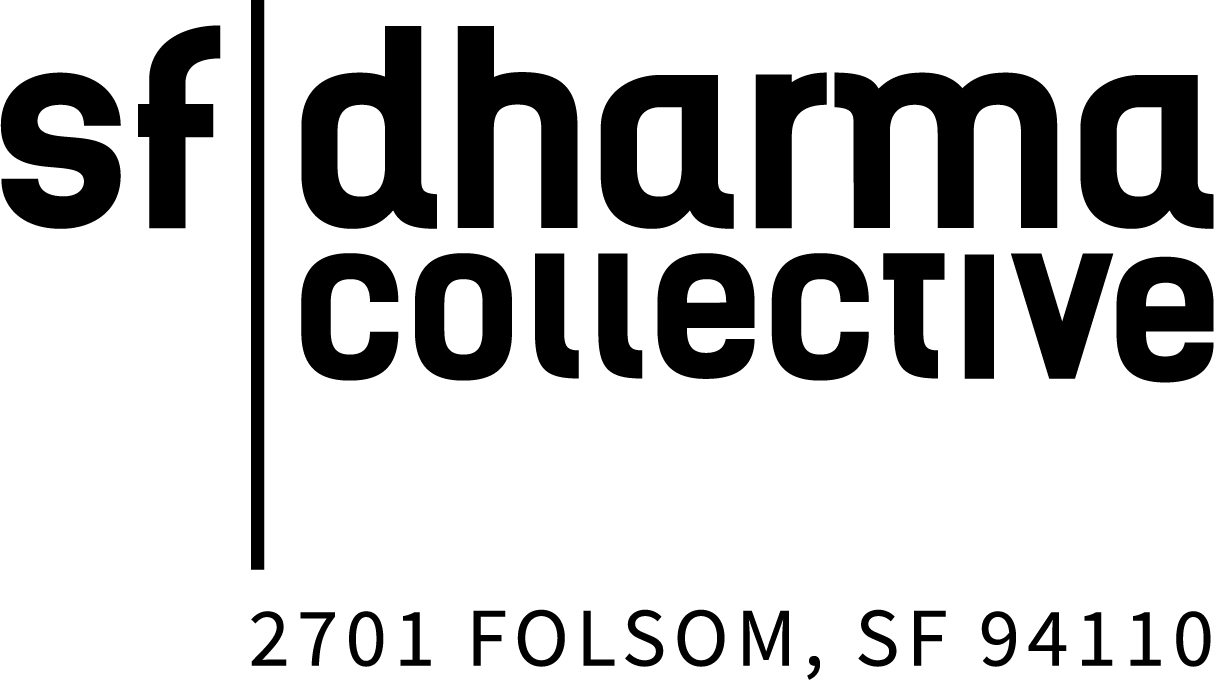
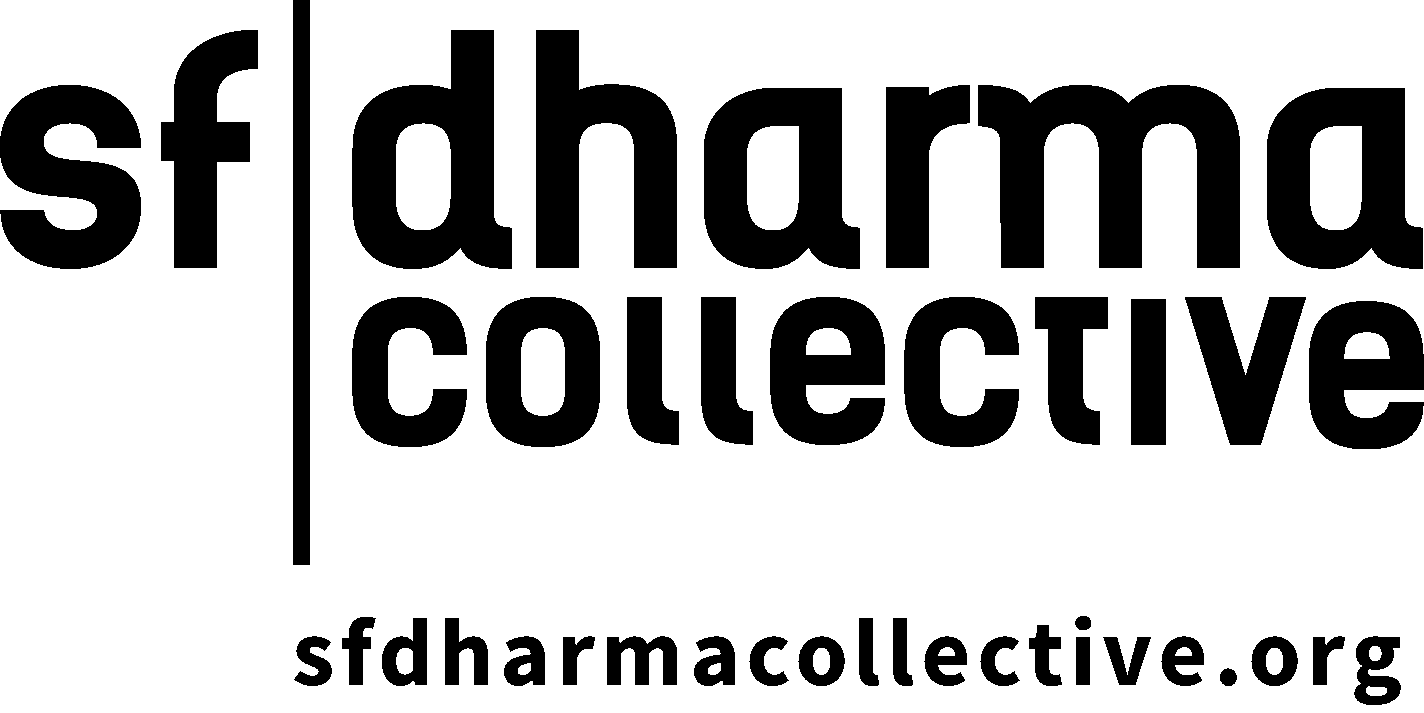
Update header image

diff --git a/src/components/MaterialMenu.js b/src/components/MaterialMenu.js
@@ -5,14 +5,14 @@ import Grid from '@material-ui/core/Grid';
 import HeaderImagePath from '../assets/images/sfdc-header.png';
 import Hidden from '@material-ui/core/Hidden';
 import IconButton from '@material-ui/core/IconButton';
-import {Link} from 'gatsby';
+import { Link } from 'gatsby';
 import MenuIcon from '@material-ui/icons/Menu';
 import MenuItem from './MenuItem';
 import PopoverMenu from './PopoverMenu';
 import React from 'react';
 import Toolbar from '@material-ui/core/Toolbar';
 import Typography from '@material-ui/core/Typography';
-import {makeStyles} from '@material-ui/core/styles';
+import { makeStyles } from '@material-ui/core/styles';
 import withWidth from '@material-ui/core/withWidth';
 
 const useStyles = makeStyles((theme) => ({
@@ -21,8 +21,8 @@ const useStyles = makeStyles((theme) => ({
     marginTop: '10px',
   },
   headerImage: {
-    'maxWidth': '90px',
-    'transition': 'all 0.2s ease-in-out',
+    maxWidth: '110px',
+    transition: 'all 0.2s ease-in-out',
     '&:hover': {
       filter:
         'invert(82%) sepia(47%) saturate(536%) hue-rotate(136deg) brightness(84%) contrast(89%)',
@@ -34,7 +34,7 @@ const useStyles = makeStyles((theme) => ({
 }));
 
 const menuItems = [
-  {name: 'Home', path: '/'},
+  { name: 'Home', path: '/' },
   {
     name: 'About Us',
     path: '/about-us',
@@ -45,9 +45,9 @@ const menuItems = [
     path: '/upcoming-events',
     nested: ['Calendar'],
   },
-  {name: 'Donate', path: '/donate'},
-  {name: 'Volunteer', path: '/volunteer'},
-  {name: 'Newsletter', path: '/newsletter'},
+  { name: 'Donate', path: '/donate' },
+  { name: 'Volunteer', path: '/volunteer' },
+  { name: 'Newsletter', path: '/newsletter' },
   {
     name: 'Resources',
     path: '/resources',
@@ -63,7 +63,7 @@ const menuItems = [
 
 const MaterialMenu = (props) => {
   const {
-    location: {pathname},
+    location: { pathname },
   } = props;
 
   const classes = useStyles();
@@ -83,19 +83,19 @@ const MaterialMenu = (props) => {
 
   return (
     <>
-      <AppBar className={classes.appBar} position="relative" elevation={0}>
-        <Toolbar disableGutters component="nav">
+      <AppBar className={classes.appBar} position='relative' elevation={0}>
+        <Toolbar disableGutters component='nav'>
           <Typography className={classes.title}>
-            <Link to="/">
+            <Link to='/'>
               <img
                 className={classes.headerImage}
                 src={HeaderImagePath}
-                alt="SFCD Logo"
+                alt='SFCD Logo'
               />
             </Link>
           </Typography>
           <Hidden mdDown>
-            {menuItems.map(({name, path, nested}) =>
+            {menuItems.map(({ name, path, nested }) =>
               nested ? (
                 <PopoverMenu
                   key={name}
@@ -107,16 +107,16 @@ const MaterialMenu = (props) => {
                 <MenuItem
                   key={name}
                   currentPath={pathname}
-                  item={{name, path}}
+                  item={{ name, path }}
                 />
-              ),
+              )
             )}
           </Hidden>
           <Hidden lgUp>
             <>
               <IconButton
-                edge="start"
-                aria-label="menu"
+                edge='start'
+                aria-label='menu'
                 onClick={toggleDrawerMenu}
               >
                 <MenuIcon />
